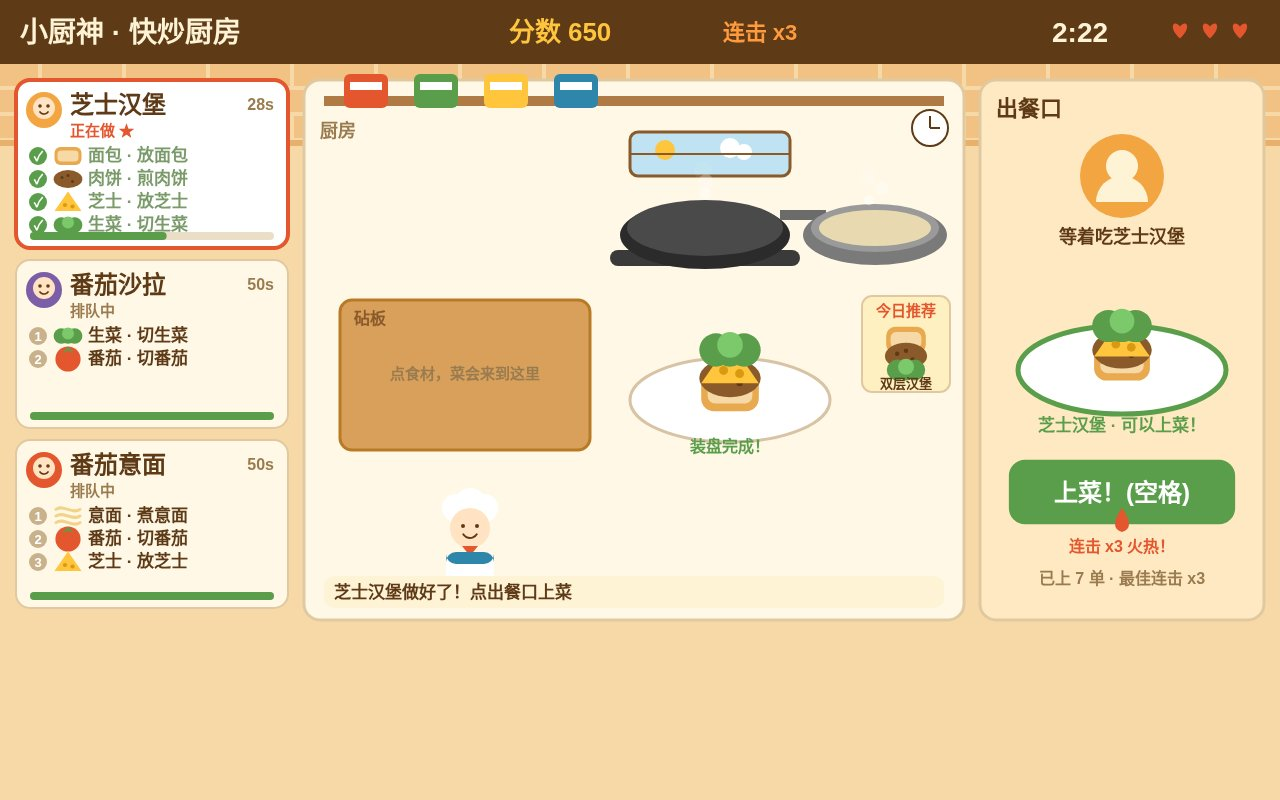
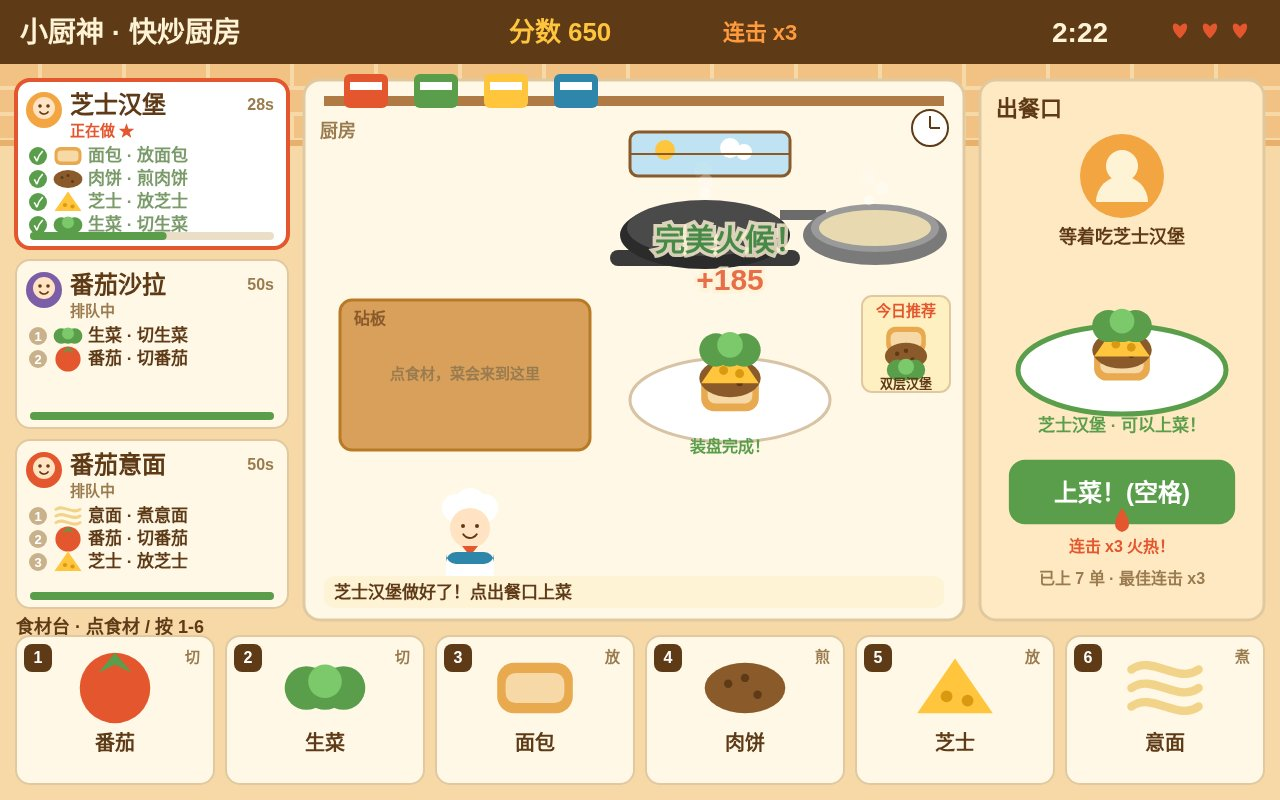
v2.1: fix float font crash on serve shot (FONT was undefined)

Changed region(s): [[0.0, 0.75, 1.0, 1.0], [0.5, 0.25, 0.625, 0.375]]

diff --git a/game/src/render.js b/game/src/render.js
@@ -315,7 +315,7 @@ export function drawGame(ctx, world) {
     ctx.save();
     ctx.globalAlpha = Math.max(0, f.ttl / 1.4);
     const fy = f.y - (1.4 - f.ttl) * 40;
-    ctx.font = `900 30px ${FONT}`;
+    ctx.font = '900 30px "Trebuchet MS", "Segoe UI", sans-serif';
     ctx.textAlign = 'center'; ctx.textBaseline = 'middle';
     ctx.lineWidth = 7; ctx.strokeStyle = 'rgba(255,243,214,0.95)';
     ctx.strokeText(f.text, f.x, fy);
